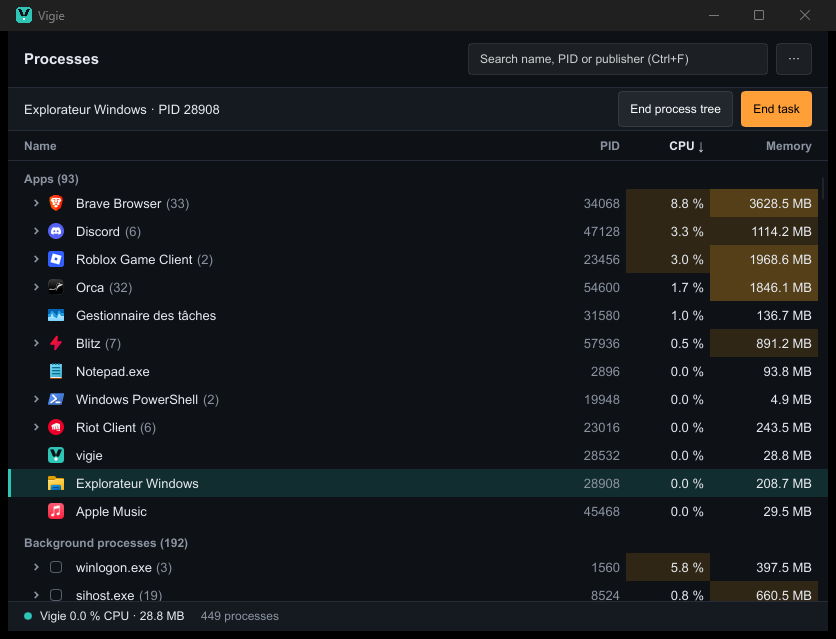
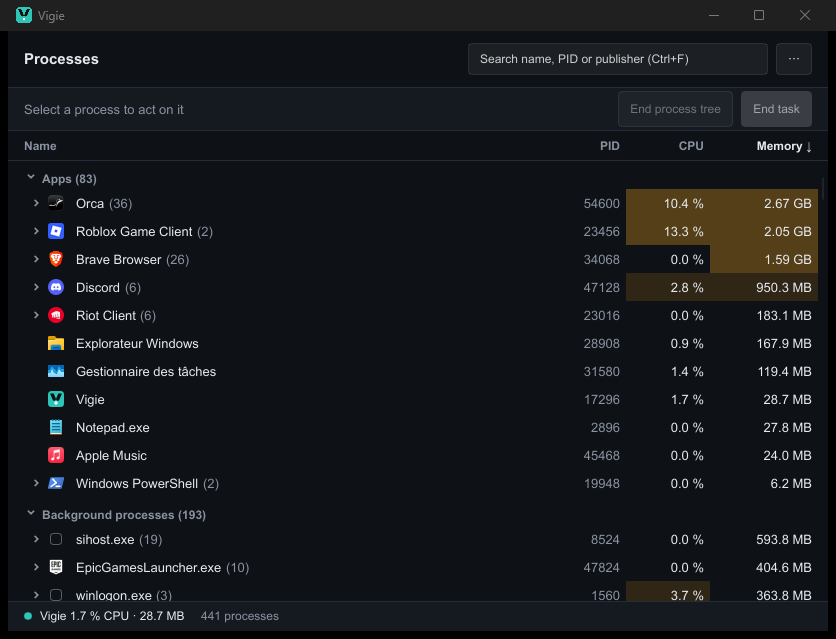
feat(ux): foldable sections, GB for large memory, failures beside the command buttons; M1 status in the roadmap

diff --git a/crates/vigie-core/src/lib.rs b/crates/vigie-core/src/lib.rs
@@ -151,6 +151,8 @@ pub struct Core {
     /// Start time of each live PID, to resolve UI requests made by PID.
     starts: HashMap<Pid, u64>,
     details: HashMap<ProcKey, Details>,
+    /// Sections folded to their header.
+    collapsed_groups: HashSet<Group>,
     /// Real parent links of the last sample (start times checked), for ending a whole tree.
     children: HashMap<Pid, Vec<Pid>>,
 }
@@ -186,6 +188,12 @@ impl Core {
         }
     }
 
+    /// Folds or unfolds a section of the table. Searching shows every section.
+    pub fn toggle_group(&mut self, group: Group) {
+        if !self.collapsed_groups.remove(&group) {
+            self.collapsed_groups.insert(group);
+        }
+    }
     /// The live process with this PID, if its start time ends with these 31 bits (the UI keeps
     /// only that much). `None` if the PID is gone or now names another process.
     pub fn identify(&self, pid: Pid, start_low_bits: u32) -> Option<Target> {
@@ -301,6 +309,7 @@ impl Core {
             &|p| matches_filter(p, details.get(&(p.pid, p.start_time)), filter),
             self.sort,
             &self.expanded,
+            &self.collapsed_groups,
         );
         frame.matching_count = tree.matching;
         let total_memory = sample.memory_total_bytes;
@@ -343,7 +352,11 @@ impl Core {
             .entries
             .iter()
             .map(|entry| match *entry {
-                Entry::Group { group, count } => Row {
+                Entry::Group {
+                    group,
+                    count,
+                    collapsed,
+                } => Row {
                     kind: RowKind::Group(group),
                     pid: 0,
                     start_time: 0,
@@ -354,7 +367,7 @@ impl Core {
                     memory_heat: 0,
                     depth: 0,
                     count: count as u32,
-                    expanded: true,
+                    expanded: !collapsed,
                     icon: None,
                     publisher: None,
                     tree_size: 0,
@@ -691,6 +704,22 @@ mod tests {
             0,
             "the shell does not adopt the apps it starts"
         );
+    }
+
+    #[test]
+    fn folded_sections_keep_their_header_only() {
+        let mut core = by_memory();
+        core.toggle_group(Group::System);
+        let frame = core.update(&desktop_sample());
+        assert_eq!(pids(&frame), [20, 10, 30], "no system processes");
+        let header = frame.rows.last().expect("system header");
+        assert_eq!(
+            (header.kind, header.count, header.expanded),
+            (RowKind::Group(Group::System), 2, false)
+        );
+        // Searching shows matches even in a folded section.
+        core.set_filter("svc");
+        assert_eq!(pids(&core.update(&desktop_sample())), [41, 40]);
     }
 
     #[test]

diff --git a/crates/vigie-core/src/tree.rs b/crates/vigie-core/src/tree.rs
@@ -45,9 +45,20 @@ impl Figures {
 /// its expanded subtree.
 #[derive(Clone, Copy, Debug, PartialEq)]
 pub(crate) enum Entry {
-    Group { group: Group, count: usize },
-    Process { node: usize, depth: u8, total: bool },
-    Itself { node: usize, depth: u8 },
+    Group {
+        group: Group,
+        count: usize,
+        collapsed: bool,
+    },
+    Process {
+        node: usize,
+        depth: u8,
+        total: bool,
+    },
+    Itself {
+        node: usize,
+        depth: u8,
+    },
 }
 
 pub(crate) struct Tree {
@@ -71,6 +82,7 @@ pub(crate) fn build(
     filter: &dyn Fn(&ProcSample) -> bool,
     sort: Sort,
     expanded: &HashSet<ProcKey>,
+    collapsed: &HashSet<Group>,
 ) -> Tree {
     let index: HashMap<Pid, usize> = nodes
         .iter()
@@ -187,6 +199,7 @@ pub(crate) fn build(
             entries.push(Entry::Group {
                 group: section,
                 count: matches.len(),
+                collapsed: false,
             });
             entries.extend(matches.into_iter().map(|node| Entry::Process {
                 node,
@@ -202,10 +215,15 @@ pub(crate) fn build(
             continue;
         }
         let count = (0..nodes.len()).filter(|&i| group[i] == section).count();
+        let folded = collapsed.contains(&section);
         entries.push(Entry::Group {
             group: section,
             count,
+            collapsed: folded,
         });
+        if folded {
+            continue;
+        }
         roots.sort_by(|&a, &b| compare(a, b, &totals));
         for root in roots {
             emit(

diff --git a/crates/vigie-app/src/sampler.rs b/crates/vigie-app/src/sampler.rs
@@ -5,7 +5,7 @@ use std::path::PathBuf;
 use std::thread;
 use std::time::{Duration, Instant};
 
-use vigie_core::{Core, Details, Pid, Sort};
+use vigie_core::{Core, Details, Group, Pid, Sort};
 use vigie_probe::{Action, Icon, Probe, ProbeError, ProcDetails, Sample, SystemProbe};
 
 use crate::AppWindow;
@@ -23,6 +23,8 @@ pub enum Command {
         focused: bool,
         visible: bool,
     },
+    /// Fold or unfold a section of the table.
+    ToggleGroup(Group),
     /// Act on a process, named by its PID and the low 31 bits of its start time. The UI has
     /// already asked the user to confirm when the action is destructive.
     Act {
@@ -108,6 +110,7 @@ fn run(window: slint::Weak<AppWindow>, settings: Settings, commands: flume::Rece
                         Command::Sort(sort) => core.set_sort(sort),
                         Command::Filter(filter) => core.set_filter(&filter),
                         Command::Toggle(pid) => core.toggle(pid),
+                        Command::ToggleGroup(group) => core.toggle_group(group),
                         Command::Window { focused, visible } => {
                             let woke = (focused && !pace.focused) || (visible && !pace.visible);
                             pace.focused = focused;

diff --git a/crates/vigie-app/src/main.rs b/crates/vigie-app/src/main.rs
@@ -13,7 +13,7 @@ use std::rc::Rc;
 use anyhow::Context;
 use slint::winit_030::WinitWindowAccessor;
 use slint::{ComponentHandle, Model, ModelRc, VecModel};
-use vigie_core::{Sort, SortKey};
+use vigie_core::{Group, Sort, SortKey};
 
 use vigie_probe::{Action, Priority};
 
@@ -97,6 +97,16 @@ fn main() -> anyhow::Result<()> {
     // Adaptive refresh: tell the sampler when the window goes to the background or comes back.
     // Polled, because a window that never had focus gets no focus events, and minimising does
     // not always report occlusion.
+    let tx = commands.clone();
+    app.on_group_clicked(move |index| {
+        let group = match index {
+            0 => Group::Apps,
+            1 => Group::Background,
+            2 => Group::System,
+            _ => Group::All,
+        };
+        let _ = tx.send(Command::ToggleGroup(group));
+    });
     let tx = commands.clone();
     let weak = app.as_weak();
     let state = Cell::new((true, true));
@@ -190,6 +200,7 @@ fn main() -> anyhow::Result<()> {
     app.on_sort_clicked(|_| {});
     app.on_search_edited(|_| {});
     app.on_toggle_clicked(|_| {});
+    app.on_group_clicked(|_| {});
     app.on_request_action(|_, _, _| {});
     drop(pace_timer);
     let _ = sampler.join();

diff --git a/crates/vigie-app/src/model.rs b/crates/vigie-app/src/model.rs
@@ -193,8 +193,15 @@ pub fn format_cpu(percent: Option<f32>) -> SharedString {
     }
 }
 
+/// Megabytes up to 1 GB, then gigabytes, so large values stay short and readable.
 pub fn format_memory(bytes: u64) -> SharedString {
-    format!("{:.1} MB", bytes as f64 / (1024.0 * 1024.0)).into()
+    const MB: f64 = 1024.0 * 1024.0;
+    let mb = bytes as f64 / MB;
+    if mb < 1024.0 {
+        format!("{mb:.1} MB").into()
+    } else {
+        format!("{:.2} GB", mb / 1024.0).into()
+    }
 }
 
 /// What a patch did, for tests and diagnostics.
@@ -395,5 +402,6 @@ mod tests {
         assert_eq!(format_cpu(None), "—");
         assert_eq!(format_cpu(Some(12.345)), "12.3 %");
         assert_eq!(format_memory(3 * 1024 * 1024 / 2), "1.5 MB");
+        assert_eq!(format_memory(3_800_000_000), "3.54 GB");
     }
 }

diff --git a/docs/ROADMAP.md b/docs/ROADMAP.md
@@ -16,8 +16,8 @@ Each milestone ends with something you can run and show. Estimates are evenings 
 Vigie should look as good as it is light. Design work has its own deliverables, reviewed with screenshots.
 
 * **D1 — Identity (done, approved 2026-10-22):** logo and app icon (readable at 16 px in the taskbar and the tray), palette, typography, art direction, short brand guide in `docs/BRAND.md`, masters in `assets/brand/`.
-* **D2 — Interface art direction (before M1 ends):** design tokens as a Slint global (colours for dark and light, type scale, spacing, radii), table density, heat colours, status bar; applied over the native styles without fighting them.
-* **D3 — UX pass per milestone:** each milestone ends with a screenshot review of its views (empty, loading, error and privilege-limited states included) and a list of fixes.
+* **D2 — Interface art direction (done 2026-10-22, `ui/theme.slint`):** design tokens as a Slint global (colours for dark and light, type scale, spacing, radii), table density, heat colours, status bar; applied over the native styles without fighting them.
+* **D3 — UX pass per milestone (M1: `docs/ux/audit-m1.md`):** each milestone ends with a screenshot review of its views (empty, loading, error and privilege-limited states included) and a list of fixes.
 
 **Done when:** each item has its screenshots and its decision recorded; D2 lands before M1 is called done.
 
@@ -31,6 +31,8 @@ Vigie should look as good as it is light. Design work has its own deliverables, 
 * Performance budget enforced in CI.
 
 **Done when:** it replaces the Windows Task Manager "Processes" tab for daily use, within budget.
+
+**Status (2026-10-22):** features done on Windows and tried hands-on by the author; UX audit in `docs/ux/audit-m1.md`. Pending, at the end with CI: budget enforcement in CI. Open questions on the budget itself: CPU measured on an idle machine (~300 processes) or under real load, memory as working set or private bytes (see the audit, item 9).
 
 ## M2 — Performance (2 weeks)
 

diff --git a/docs/ux/audit-m1.md b/docs/ux/audit-m1.md
@@ -18,10 +18,10 @@ user's first hands-on test. Severity: **P1** blocks daily use, **P2** costs time
 | 8 | P2 | The column chooser is a right click on the header: undiscoverable. | Also in the More menu of the command bar ("Columns"). | Fixed |
 | 9 | P2 | Memory reached 40.8 MB during the hands-on test (budget 30 MB), against 28 MB idle. | Measured: private memory stays at 9 MB; the extra working set is shared Windows pages (text input framework, UI Automation) that any focused window touches. `bench-overhead` now reports private memory too. Whether the budget counts the working set or private memory is a decision to take. | Explained, decision pending |
 | 10 | P2 | "About" sits in the status bar, the most valuable strip of the window. | Moves to the More menu. | Fixed |
-| 11 | P3 | Section headers cannot collapse. | Click a section header to collapse it. | Open (M5 with keyboard navigation polish) |
+| 11 | P3 | Section headers cannot collapse. | Click a section header to collapse it. | Fixed |
 | 12 | P3 | "—" (no value yet, or not readable without elevation) has no explanation. | Tooltip once Slint offers one; meanwhile documented in the About window. | Open |
-| 13 | P3 | Large memory values read poorly ("2240.2 MB"). | Group digits per locale, or switch to GB above 1 GB. | Open (with translations) |
-| 14 | P3 | Errors (access denied) appear in the status bar and are easy to miss. | Notice in the command bar, next to the action that failed. | Open |
+| 13 | P3 | Large memory values read poorly ("2240.2 MB"). | GB above 1 GB ("2.67 GB"). Digit grouping per locale comes with translations. | Fixed |
+| 14 | P3 | Errors (access denied) appear in the status bar and are easy to miss. | Failures show in the command bar, next to the buttons, in the danger colour. | Fixed |
 | 15 | P3 | The search field's focus line uses the Windows accent (orange here), not the brand lagoon. | Native style choice; keep unless it clashes in user tests. | Won't fix for now |
 
 ## Principles applied
